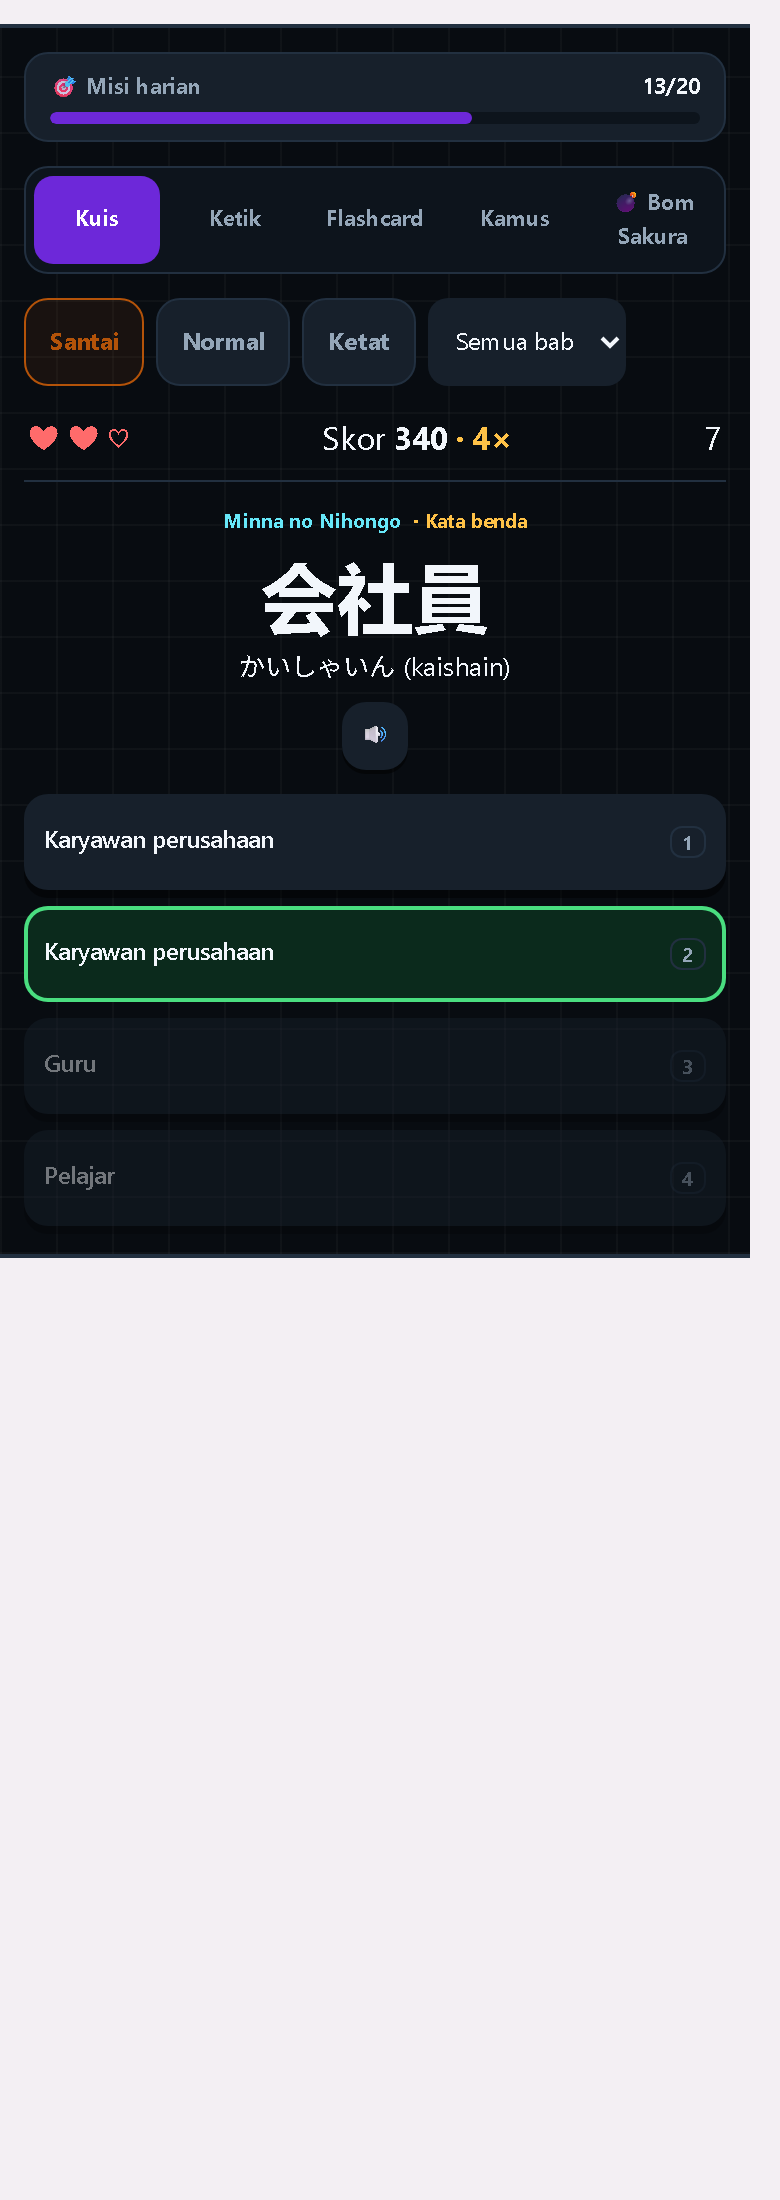
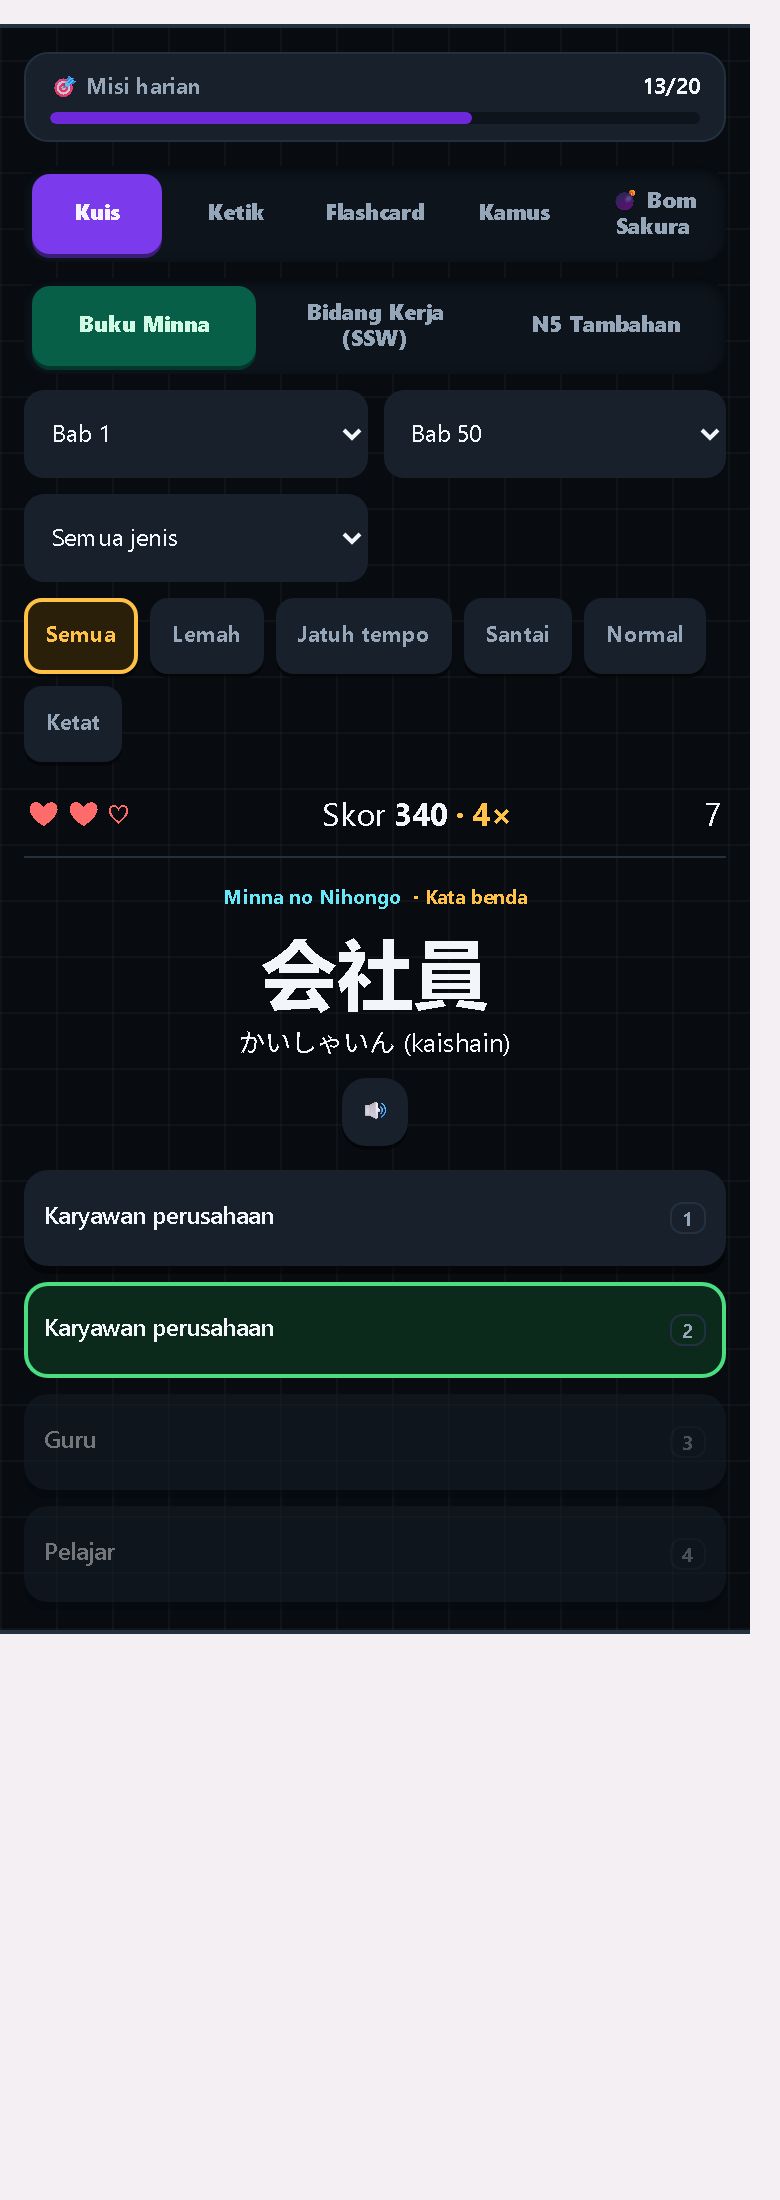
refactor(kotoba): tab mode, sumber, dan filter jadi kontrol arena
Sisa terakhir dari re-skin /kotoba: baris tab dan filter masih kotak berbingkai
di dalam arena — terbaca sebagai kontrol web yang ditempel, bukan bagian layar.

- Tab mode dan tab sumber memakai `.arc-tab`: rel CEKUNG berisi tombol, yang
  terpilih jadi slab (violet untuk mode, hijau untuk sumber). Keadaan terpilih
  dibaca dari `aria-pressed` yang sudah ada.
- Fokus dan tingkat memakai `.arc-chip`.
- Select memakai gaya jembatan `.arc select` (sudah ada sejak commit sebelumnya).

DUA KOREKSI YANG DIPAKSA PENGUKURAN
- `flex: 1 1 30%` membuat lima tab pecah 3+2 dengan celah lebar di baris kedua.
  Diganti `1 1 0` + `min-width: 0`: kelimanya satu baris, label panjang
  membungkus DI DALAM tombolnya.
- `.arc-tab--hijau` sebagai kelas KOSONG tidak menghasilkan aturan apa pun, dan
  `verify:classes` menolaknya dengan benar (kelas tanpa aturan = elemen tanpa
  gaya). Varian aksen dipindah ke atribut: `.arc-tab[data-aksen="hijau"]`.

Terverifikasi: 141 berkas / 1893 tes hijau · tsc 0 · lint 1972 tanpa tambahan ·
verify:classes lolos · build lolos · tanpa luberan di 390/1280.
Tangkapan layar tetap dari MOCKUP statis (nama berkas menyebut "mockup"):
/kotoba mengambil bank kata dari server dan server lokal tidak punya kredensial.

diff --git a/src/components/candidate/KotobaGame.tsx b/src/components/candidate/KotobaGame.tsx
@@ -1399,19 +1399,9 @@ export default function KotobaGame({ waTarget = '', adminMode = false }: Props) 
       </div>
 
       {/* ── Tab mode ── */}
-      <div class="flex gap-1.5 p-1 rounded-control bg-surface-sunken border border-line mb-3">
+      <div class="arc-tab">
         {modeTab.map((m) => (
-          <button
-            key={m.id}
-            type="button"
-            onClick={() => setMode(m.id)}
-            aria-pressed={mode === m.id}
-            class={`flex-1 min-w-[30%] min-h-11 px-2 py-1 rounded-[0.6rem] text-[11px] leading-tight font-bold whitespace-normal break-words transition-colors motion-reduce:transition-none ${
-              mode === m.id
-                ? 'bg-accent-violet text-canvas'
-                : 'text-fg-muted hover:text-fg hover:bg-surface-raised'
-            }`}
-          >
+          <button key={m.id} type="button" onClick={() => setMode(m.id)} aria-pressed={mode === m.id}>
             {m.label}
           </button>
         ))}
@@ -1425,20 +1415,10 @@ export default function KotobaGame({ waTarget = '', adminMode = false }: Props) 
           "Bidang Kerja (SSW)" tidak lagi muat sepertiga lebar layar 320 px —
           tanpa pembungkusan ia meluber keluar tombol. Ditemukan saat review UI
           2026-11-04. */}
-      <fieldset class="flex flex-wrap gap-1.5 p-1 rounded-control bg-surface-sunken border border-line mb-2">
+      <fieldset class="arc-tab" data-aksen="hijau">
         <legend class="sr-only">{t('kotoba.sumber_label')}</legend>
         {(['minna', 'ssw', 'n5'] as Sumber[]).map((s) => (
-          <button
-            key={s}
-            type="button"
-            onClick={() => setSumber(s)}
-            aria-pressed={sumber === s}
-            class={`flex-1 min-h-11 px-2 rounded-[0.6rem] text-[12px] font-bold transition-colors motion-reduce:transition-none ${
-              sumber === s
-                ? 'bg-accent-emerald text-canvas'
-                : 'text-fg-muted hover:text-fg hover:bg-surface-raised'
-            }`}
-          >
+          <button key={s} type="button" onClick={() => setSumber(s)} aria-pressed={sumber === s}>
             {s === 'minna' ? t('kotoba.sumber_minna') : s === 'ssw' ? t('kotoba.sumber_ssw') : t('kotoba.sumber_n5')}
           </button>
         ))}
@@ -1517,9 +1497,7 @@ export default function KotobaGame({ waTarget = '', adminMode = false }: Props) 
               type="button"
               onClick={() => setFokus(id)}
               aria-pressed={fokus === id}
-              class={`min-h-11 rounded-control border px-3 text-[12px] font-bold ${
-                fokus === id ? 'border-accent-violet bg-accent-violet/10 text-accent-violet' : 'border-line bg-surface-raised text-fg-muted'
-              }`}
+              class="arc-chip"
             >
               {label}
             </button>
@@ -1539,9 +1517,7 @@ export default function KotobaGame({ waTarget = '', adminMode = false }: Props) 
               type="button"
               onClick={() => setTingkat(id)}
               aria-pressed={tingkat === id}
-              class={`min-h-11 rounded-control border px-3 text-[12px] font-bold ${
-                tingkat === id ? 'border-accent-amber bg-accent-amber/10 text-accent-amber' : 'border-line bg-surface-raised text-fg-muted'
-              }`}
+              class="arc-chip"
             >
               {label}
             </button>

diff --git a/src/styles/arcade.css b/src/styles/arcade.css
@@ -922,6 +922,73 @@
   color: var(--arc-red);
 }
 
+/* Tab dan filter /kotoba: rel cekung berisi tombol, bukan deretan tombol
+   berbingkai. Keadaan terpilih dibaca dari `aria-pressed` — satu sumber untuk
+   mata dan pembaca layar. */
+.arc-tab {
+  display: flex;
+  flex-wrap: wrap;
+  gap: 4px;
+  margin-bottom: 8px;
+  padding: 4px;
+  border-radius: 13px;
+  background: var(--arc-cekung);
+  box-shadow: inset 0 2px 6px rgba(0, 0, 0, 0.6);
+}
+
+.arc-tab button {
+  /* `1 1 0` + `min-width: 0`, bukan `1 1 30%`: dengan 30% lima tab pecah
+     3+2 dan menyisakan celah lebar di baris kedua (terukur di 390 px). Dengan
+     basis 0 kelimanya berbagi satu baris; label panjang membungkus DI DALAM
+     tombolnya, dan tinggi baris tetap seragam. */
+  flex: 1 1 0;
+  min-width: 0;
+  min-height: 40px;
+  border: 0;
+  border-radius: 9px;
+  padding: 4px 6px;
+  background: transparent;
+  font-size: 11px;
+  font-weight: 800;
+  line-height: 1.15;
+  color: var(--arc-muted);
+}
+
+.arc-tab button[aria-pressed="true"] {
+  background: #7c3aed;
+  color: #f5f3ff;
+  box-shadow: 0 2px 0 #3b1d78;
+}
+
+/* Varian aksen lewat atribut, bukan kelas tambahan: `.arc-tab--hijau` sebagai
+   kelas KOSONG tidak menghasilkan aturan, dan `verify:classes` menolaknya
+   dengan benar (kelas tanpa aturan = elemen tanpa gaya). */
+.arc-tab[data-aksen="hijau"] button[aria-pressed="true"] {
+  background: #065f46;
+  color: #d1fae5;
+  box-shadow: 0 2px 0 #03372a;
+}
+
+.arc-chip {
+  min-height: 38px;
+  border: 0;
+  border-radius: 9px;
+  padding: 0 11px;
+  background: var(--arc-cenbung);
+  font-size: 11px;
+  font-weight: 700;
+  color: var(--arc-muted);
+  box-shadow: 0 2px 0 rgba(0, 0, 0, 0.5);
+}
+
+.arc-chip[aria-pressed="true"] {
+  background: #2a1f08;
+  box-shadow:
+    inset 0 0 0 2px var(--arc-amber),
+    0 2px 0 rgba(0, 0, 0, 0.5);
+  color: var(--arc-amber);
+}
+
 /* ── Ledakan partikel ────────────────────────────────────────── */
 
 .arc-burst {
